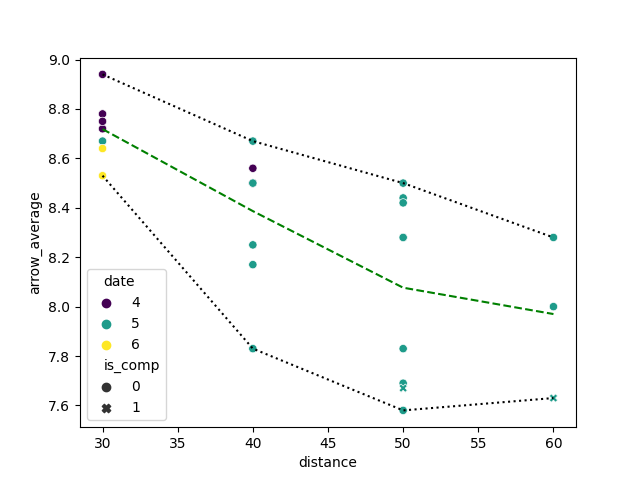
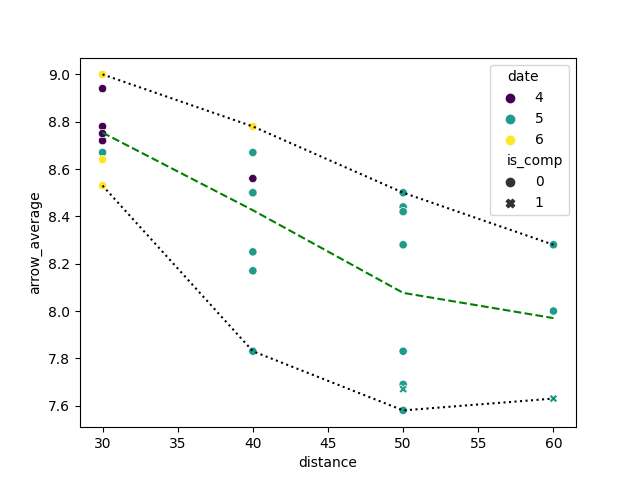
New data and best random state finder

diff --git a/archery_predictor/app.py b/archery_predictor/app.py
@@ -90,6 +90,20 @@ print(f"Score Data grouped by Competition Status: \n{dist_comp_summary}\n")
 features = score_data[["distance","days_since_first_entry","is_comp"]]
 scored = score_data[["arrow_average","golds_pct"]]
 
+print(f"  i : Train : Test  : Sum")
+for i in range(200):
+    X_train, X_test, y_train, y_test = train_test_split(
+        features, scored, test_size = 0.2, random_state = i)
+    model = linear_model.LinearRegression()
+    model.fit(X_train, y_train)
+    train_score = model.score(X_train, y_train)
+    test_score = model.score(X_test, y_test)
+    # print(f"Train Model Score [{i}]: {train_score}")
+    # print(f"Test Model Score [{i}]: {test_score}\n")
+    if train_score > 0.5 and train_score + test_score > 1.2:
+        print(f"{i:>3} : {train_score:>3.3f} : {test_score:>3.3f} : {train_score + test_score :>3.3f}")
+
+
 # Split the data into training and testing subsets
 # This ensures there is 'real' data left unseen by the model which can be 
 # used to score the models accuracy.
@@ -97,8 +111,7 @@ scored = score_data[["arrow_average","golds_pct"]]
 # "is_comp" equal to 1 then the model will have no values to train this feature on.
 # To resolve this issue I need more data, however this is obviously easier said than done...
 X_train, X_test, y_train, y_test = train_test_split(
-    features, scored, test_size = 0.2, random_state = 123)
-
+    features, scored, test_size = 0.2, random_state = 94)
 # Creates the LinReg model and trains it with the training subset
 model = linear_model.LinearRegression()
 model.fit(X_train, y_train)
